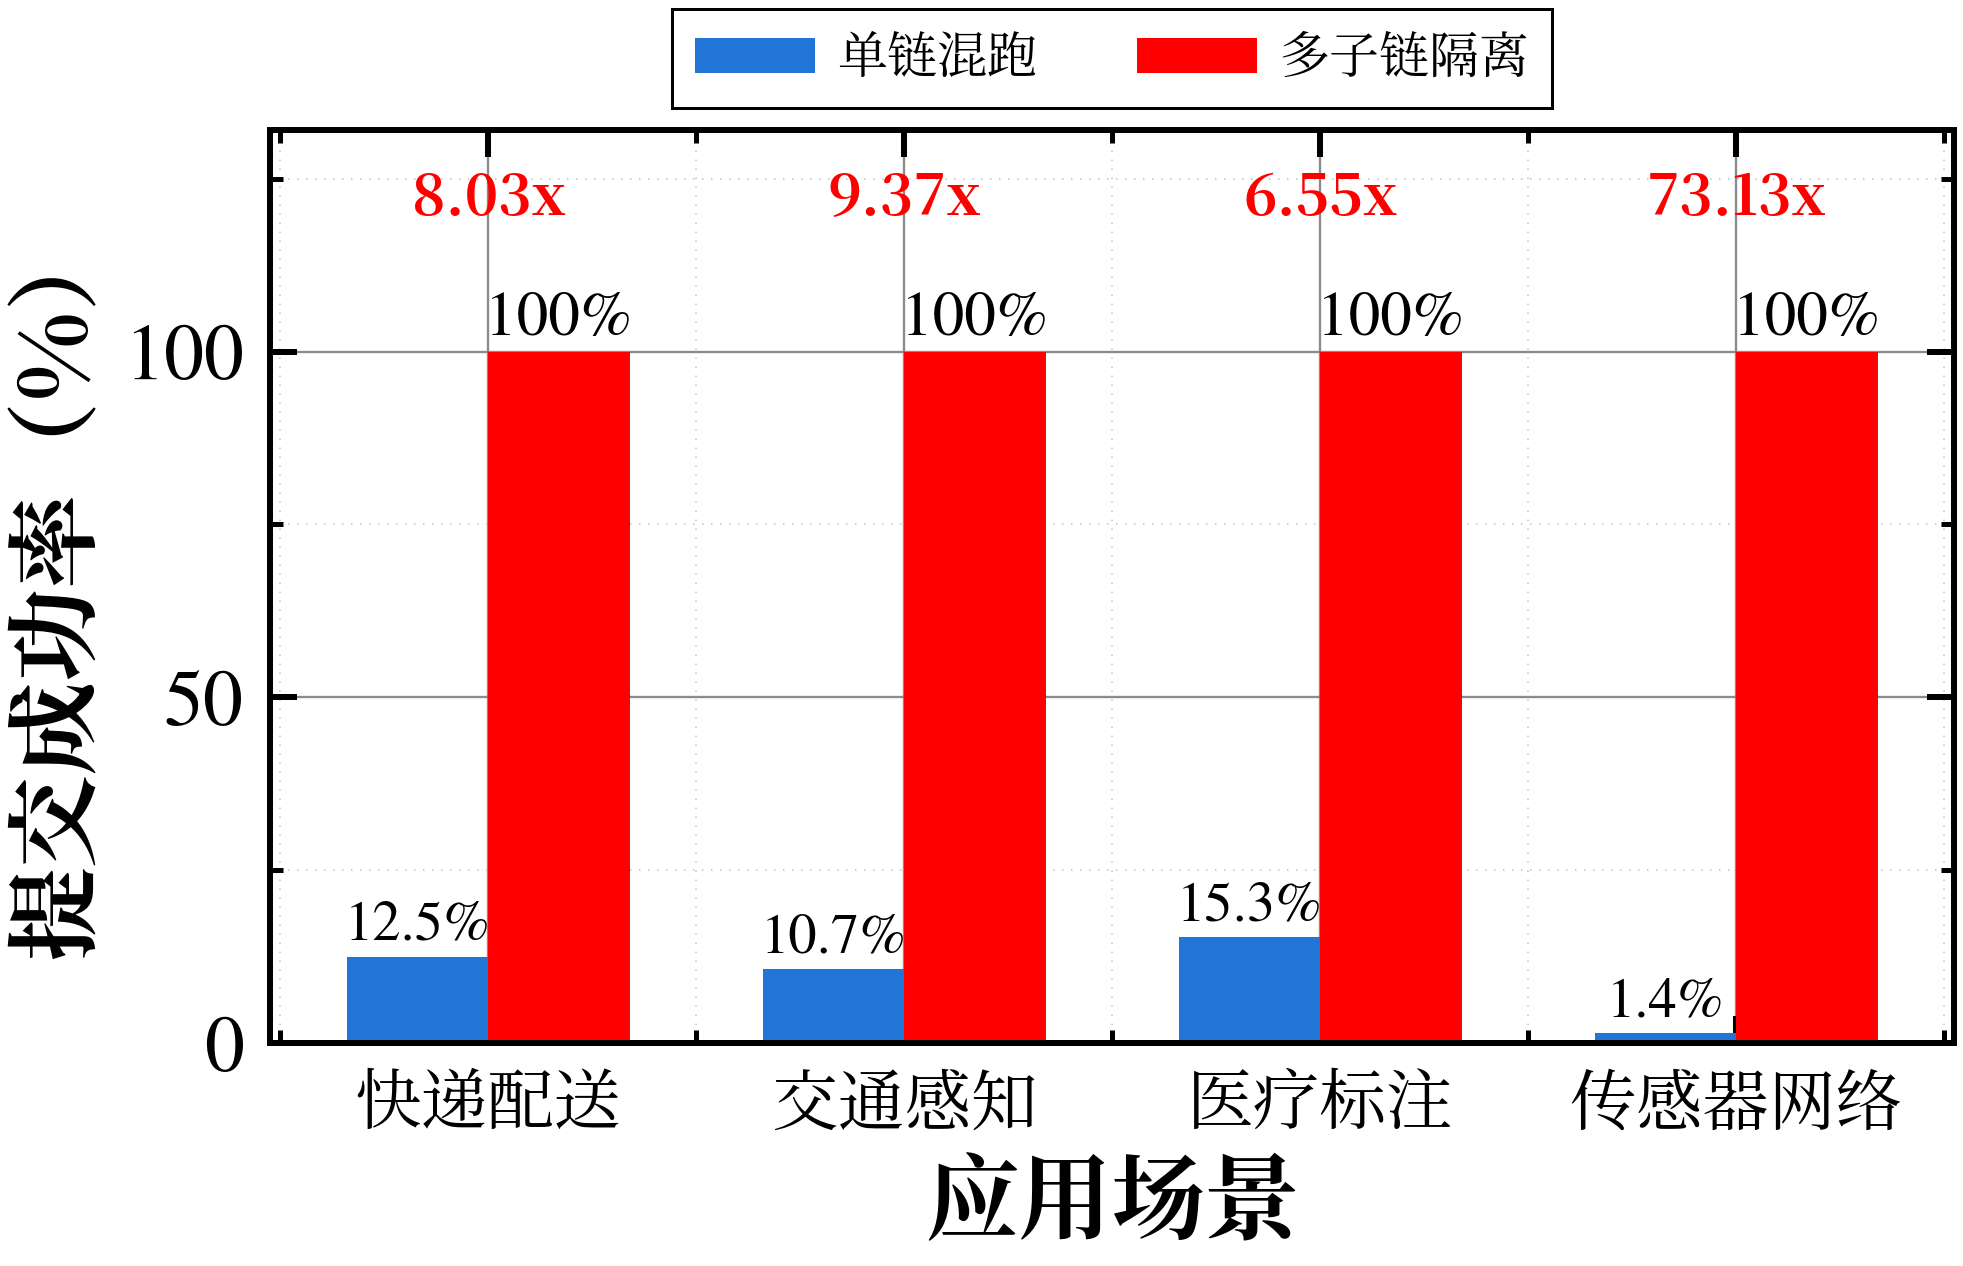
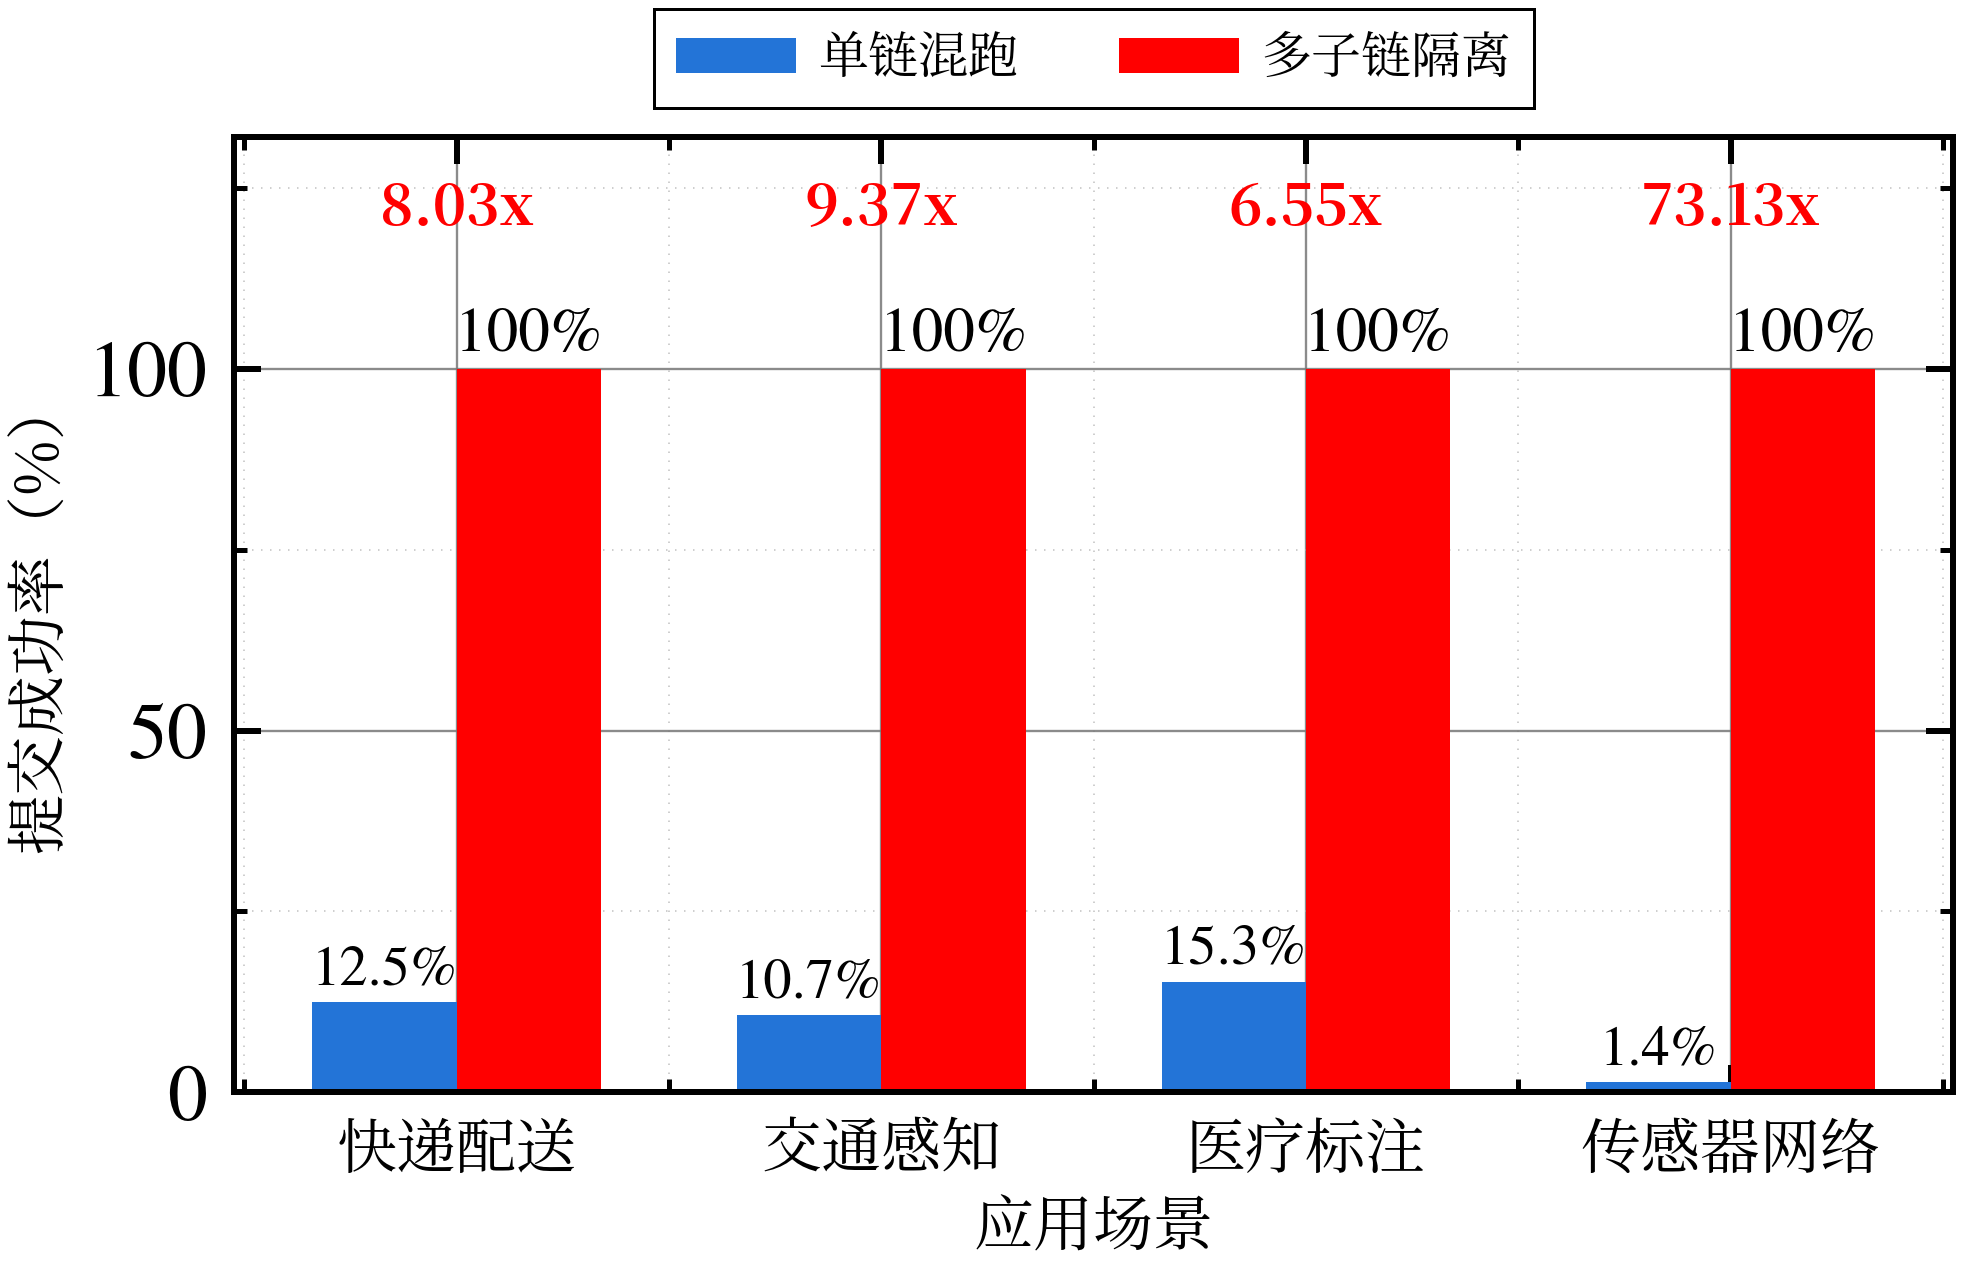
style: tune experiment figure labels

diff --git a/scripts/plot_progressive_tps.py b/scripts/plot_progressive_tps.py
@@ -177,13 +177,14 @@ def build_progressive_tps_figure(
             bbox={"facecolor": "white", "edgecolor": LINE_RED, "boxstyle": "square,pad=0.22", "linewidth": 0.9},
         )
 
-    ax.set_xlabel("子链数量", fontproperties=cjk_font(26, bold=True))
-    ax.set_ylabel("子链总吞吐量（TPS）", fontproperties=cjk_font(26, bold=True))
-    ax2.set_ylabel("主链吞吐量占用率（%）", fontproperties=cjk_font(26, bold=True))
+    ax.set_xlabel("子链数量", fontproperties=cjk_font(18))
+    ax.set_ylabel("子链总吞吐量（TPS）", fontproperties=cjk_font(18))
+    ax2.set_ylabel("主链容量占用率（%）", fontproperties=cjk_font(18))
     ax.set_xlim(ns.min() - 0.65, ns.max() + 0.65)
     ax.set_ylim(0, max(child_tps.max() * 1.2, 1))
-    ax2.set_ylim(0, 0.5)
-    ax2.set_yticks(np.arange(0, 0.51, 0.05))
+    ax2.set_ylim(0, pressure_upper)
+    tick_step = 0.05 if pressure_upper <= 0.5 else 0.1
+    ax2.set_yticks(np.arange(0, pressure_upper + tick_step / 2, tick_step))
     ax.set_xticks(ns)
     ax.set_xticklabels(labels)
 

diff --git a/scripts/plot_isolation_comparison.py b/scripts/plot_isolation_comparison.py
@@ -177,13 +177,13 @@ def build_isolation_figure(
             color=RED,
             ha="center",
             va="center",
-            fontproperties=cjk_font(17, bold=True),
+            fontproperties=cjk_font(16, bold=True),
         )
 
-    ax.set_xlabel("应用场景", fontproperties=cjk_font(28, bold=True))
-    ax.set_ylabel("提交成功率（%）", fontproperties=cjk_font(28, bold=True))
+    ax.set_xlabel("应用场景", fontproperties=cjk_font(18))
+    ax.set_ylabel("提交成功率（%）", fontproperties=cjk_font(18))
     ax.set_xticks(x)
-    ax.set_xticklabels(labels, fontproperties=cjk_font(20))
+    ax.set_xticklabels(labels, fontproperties=cjk_font(18))
     ax.set_ylim(0, 132)
 
     origin_axes(ax)

diff --git a/scripts/plot_origin_style_preview.py b/scripts/plot_origin_style_preview.py
@@ -298,8 +298,8 @@ def plot_liquidity_ratio(data_dir: Path, out_dir: Path, formats: tuple[str, ...]
     ax.text(elapsed[0] + 0.6, traditional[0] - 8, f"{traditional[0]:.0f}", fontsize=21)
     ax.text(elapsed[0] + 0.6, fishbone[0] + 3, f"{fishbone[0]:.0f}", fontsize=21)
 
-    ax.set_xlabel("运行时长（分钟）", fontproperties=cjk_font(28, bold=True))
-    ax.set_ylabel("锁定资金比例（%）", fontproperties=cjk_font(28, bold=True))
+    ax.set_xlabel("运行时长（分钟）", fontproperties=cjk_font(20))
+    ax.set_ylabel("锁定资金比例（%）", fontproperties=cjk_font(20))
     ax.set_xlim(0, x_max)
     ax.set_ylim(0, max(traditional.max(), fishbone.max()) * 1.12)
     origin_axes(ax)

diff --git a/tests/test_progressive_tps_tools.py b/tests/test_progressive_tps_tools.py
@@ -333,8 +333,8 @@ class ProgressiveTpsToolsTest(unittest.TestCase):
         self.assertEqual(len(captured["fig"].axes), 2)
         ax2 = captured["fig"].axes[1]
         labels = [text.get_text() for text in ax2.texts]
-        self.assertIn("0.022", labels)
-        self.assertIn("0.088", labels)
+        self.assertIn("0.022%", labels)
+        self.assertIn("0.088%", labels)
 
     def test_plotter_keeps_secondary_axis_clean_when_bridge_pressure_is_zero(self):
         module = load_module(PLOT_SCRIPT, "plot_progressive_tps_zero_pressure")